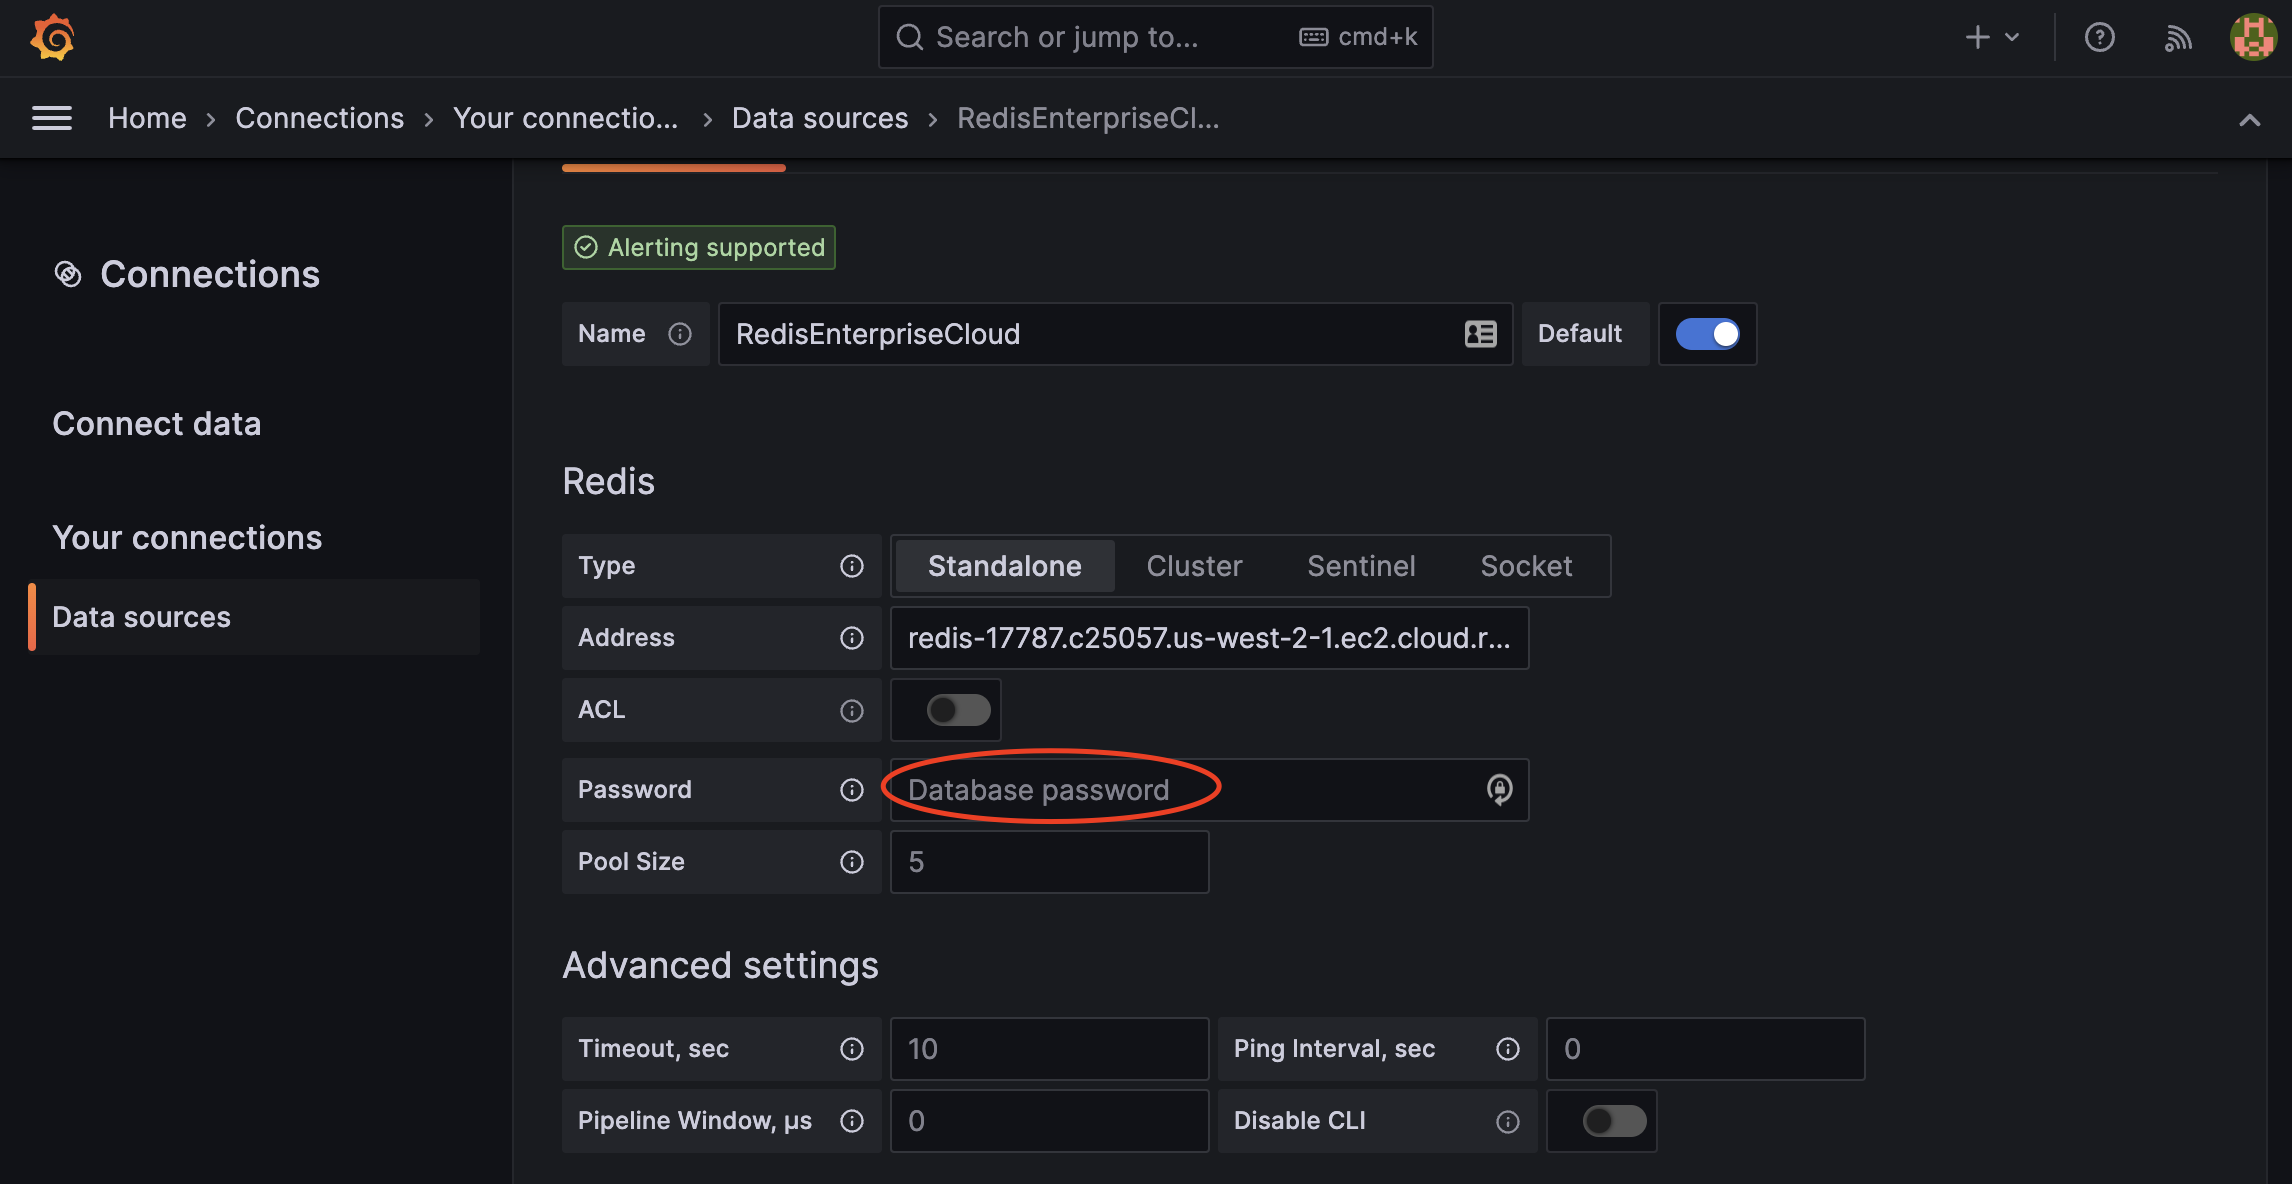
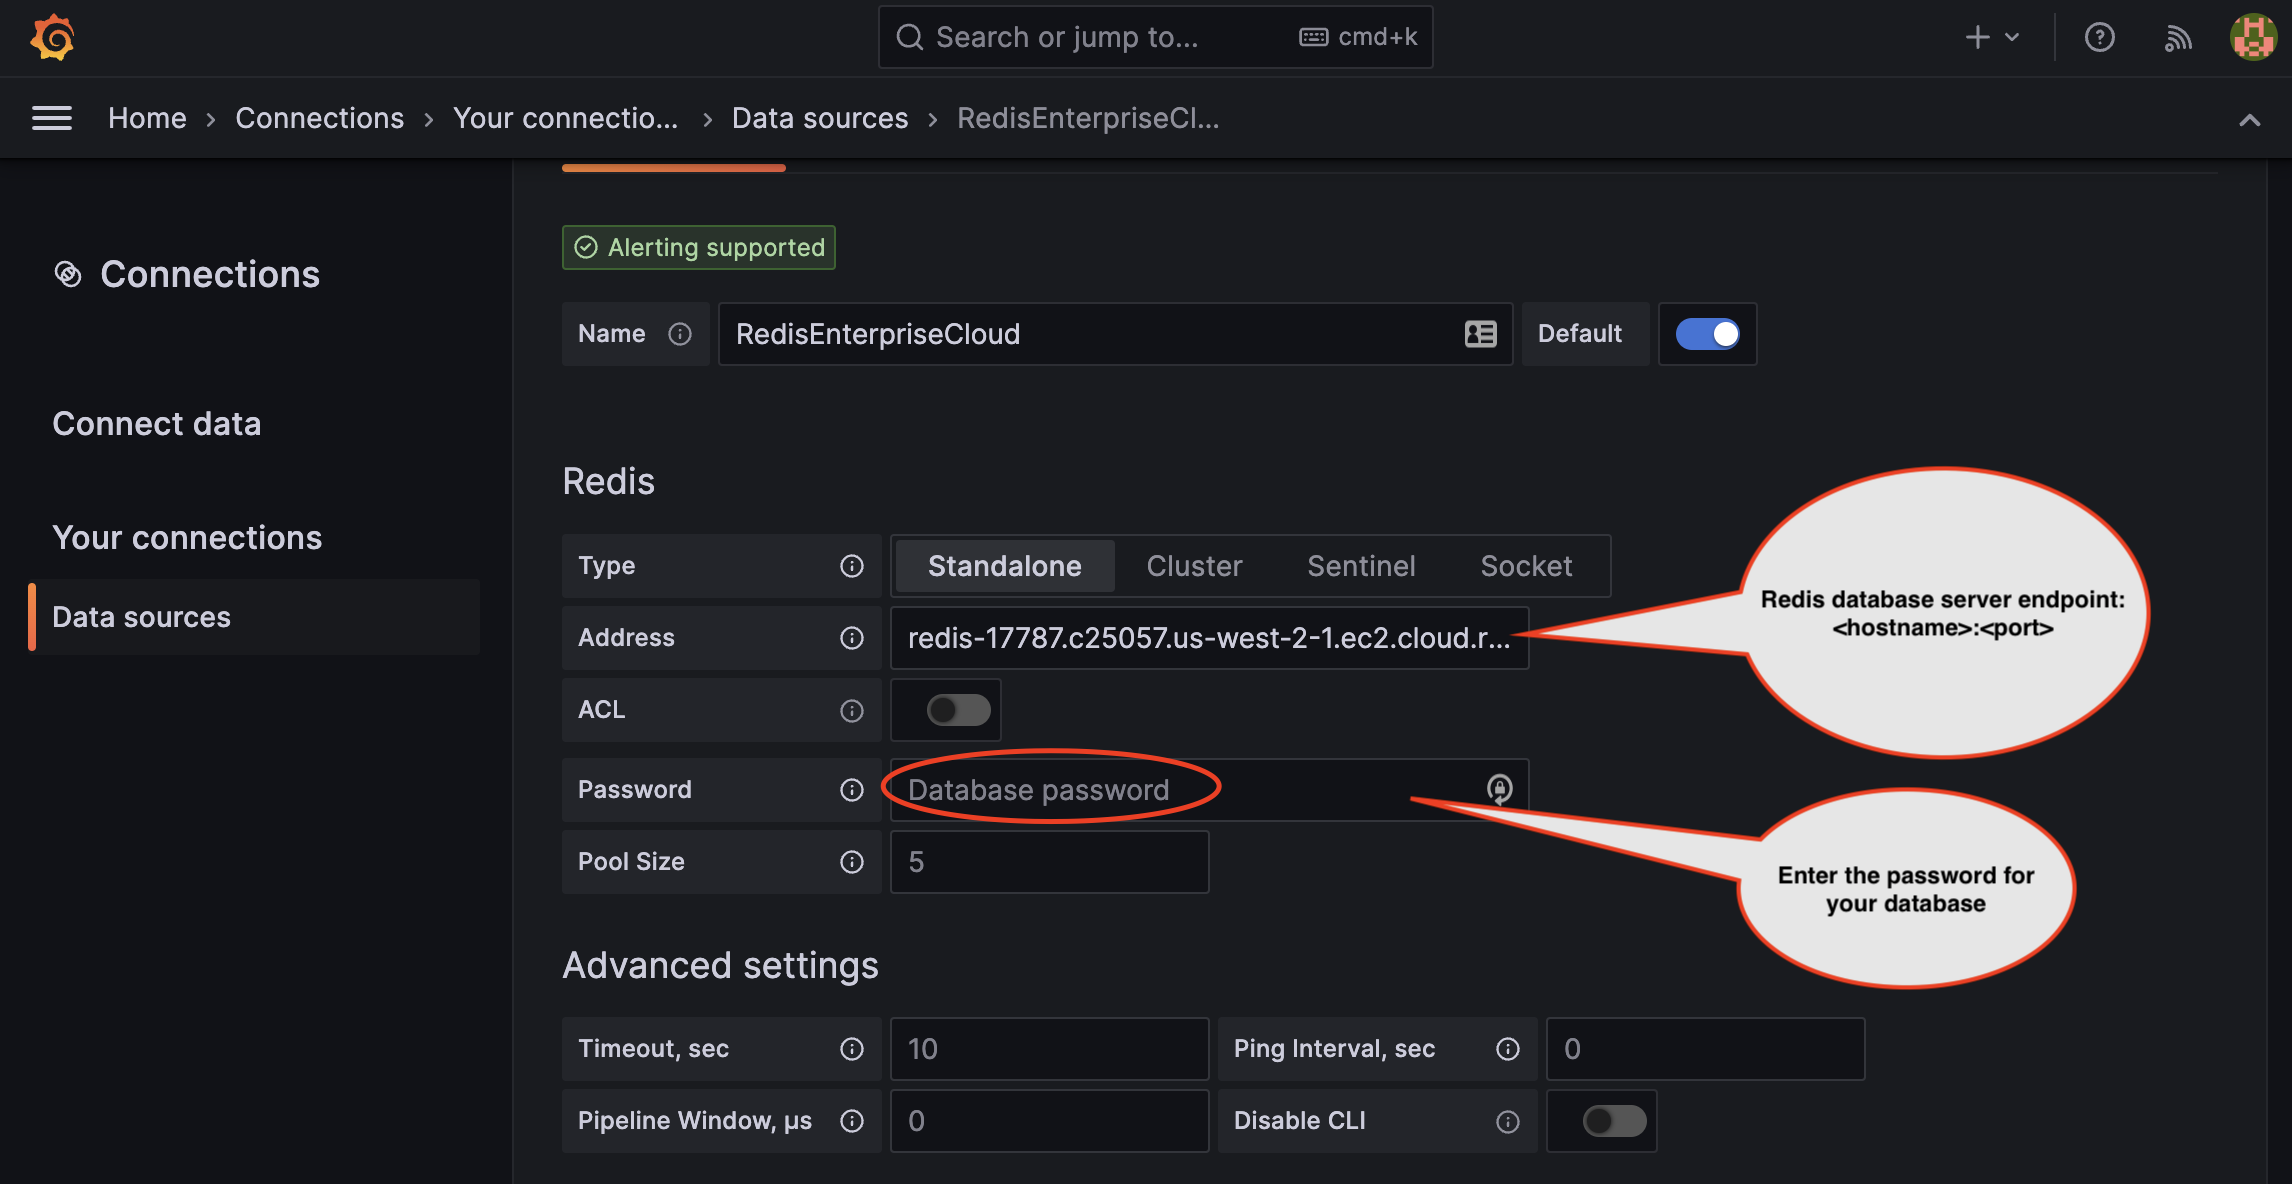
Lab 6 - Improvised with better instructions to save time.

Changed region(s): [[0.6195, 0.375, 0.9603, 0.8438]]

diff --git a/Lab 6 - Data Visualization (Optional)/README.md b/Lab 6 - Data Visualization (Optional)/README.md
@@ -14,7 +14,14 @@ In this lab, you are going to :
 
 In this exercise, you will use Grafana dashboard to visualize the live scoring of the Fraud Detection system.  **Redis Enterprise Cloud** has support for Grafana and it is very easy to build Grafana Dashboards on Redis data.
 
-1. Start an SSH session using `ssh` command. Here is an example for a typical public IP address of an ec2 machine that you have alredy provisioned in Lab 3.
+1. Start an SSH session using `ssh` command.
+Replace `<pem-file>` and `<ec2-server-hostname>`
+
+```
+ssh -i "~/.ssh/<pem-file>" centos@<ec2-server-hostname>
+```
+
+Here is an example for a typical public IP address of an ec2 machine that you have already provisioned in Lab 3.
 
 ```
 ssh -i "~/.ssh/aws-redis.pem" centos@ec2-35-93-64-166.us-west-2.compute.amazonaws.com
@@ -36,18 +43,16 @@ docker-compose up
 ![](images/02-dataviz.png)
 
 For example, for our EC2 machine that is running `CentOS`, the instructions are below:
-Open a seperate Terminal SSH window and run these commands to install Terraform.
+
+Open a separate Terminal SSH window and run these commands to install Terraform.
 
 ```
 sudo yum install -y yum-utils
 sudo yum-config-manager --add-repo https://rpm.releases.hashicorp.com/RHEL/hashicorp.repo
 sudo yum -y install terraform
 ```
-4. Next, edit the `terraform\grafana.tf` to reflect Redis Enterprise Cloud endpoint ( Hostname: Port). Search for `grafana_data_source` section and update the Redis endpoint, given by your instructor.
 
-<img width="504" alt="Screen Shot 2022-07-28 at 7 55 21 PM" src="https://user-images.githubusercontent.com/6223831/181816208-21686988-1f77-4315-8442-62ee7bdd95e6.png">
-
-5. Using terraform, we are going to install Redis data source plugin in the Grafana docker container and also setup Grafana dashboards. To do this, run the following commands.
+4. Using terraform, we are going to install Redis data source plugin in the Grafana docker container and also setup Grafana dashboards. To do this, run the following commands.
 
 ```
 cd terraform
@@ -85,76 +90,84 @@ rerun this command to reinitialize your working directory. If you forget, other
 commands will detect it and remind you to do so if necessary.
 ```
 
-7. Now lets apply the changes.
+5. Now lets apply the changes.
 
 ```
 terraform apply
 ```
 Please respond a 'yes' if there is a prompt asking you to go forward.
 
-8. Once the containers are up and running, fire up a browser and point it to :
+6. Once the containers are up and running, fire up a browser and point it to :
 http://<ec2-server-hostname>:3000
 
 Example: `http://ec2-35-93-64-166.us-west-2.compute.amazonaws.com:3000`
 
 If you are unable to access your Grafana Dashboard, you may have to edit your Security Group configurations to allow http traffic on port 3000.
 
-9. To configure `security groups` go to the EC2 machine properties page and click on `Security`
+7. To configure `security groups` go to the EC2 machine properties page and click on `Security`
 
 ![](images/03-dataviz.png)
 
-10. Click on the `Security Groups` attached to this EC2 machine.
+8. Click on the `Security Groups` attached to this EC2 machine.
 
 ![](images/04-dataviz.png)
 
-11. You will see the `EC2` ==> `Security Groups` page as shown below. Notice that there is `Inbound rules` tab and `Outbound rules` tab.
+9. You will see the `EC2` ==> `Security Groups` page as shown below. Notice that there is `Inbound rules` tab and `Outbound rules` tab.
 ![](images/05-dataviz.png)
 
-12. Click on the `Inbound rules` tab and click on the `Edit Inbound rules` button.
+10. Click on the `Inbound rules` tab and click on the `Edit Inbound rules` button.
 
 ![](images/06-dataviz.png)
 
-13. Add a rule that allows pretty much "All traffic" to reach from your local machine to the EC2 machine server.
+11. Add a rule that allows pretty much "All traffic" to reach from your local machine to the EC2 machine server.
 
 ![](images/07-dataviz.png)
 
 >IMPORTANT: The above setting is done purely for the demonstration purposes. Such settings are never recommended for Production environments.
 
-14. Fireup the browser and go to `http://<your-ec2-server-hostname>:3000`. Simply type in `admin` \ `admin` for user credentials on this screen.
+12. Fireup the browser and go to `http://<your-ec2-server-hostname>:3000`. Simply type in `admin` \ `admin` for user credentials on this screen.
 
 ![](images/08-dataviz.png)
 
-15. Skip resetting the password for now.
+13. Skip resetting the password for now.
 
 ![](images/09-dataviz.png)
 
 >IMPORTANT: The above setting is done purely for the demonstration purposes. Such settings are never recommended for Production environments.
 
-16. Woho... You are logged in to Grafana now.
+14. Woho... You are logged in to Grafana now.
 
 ![](images/10-dataviz.png)
 
-17. Navigate yourself from `Home` ==> `Connections` ==> `Your connections`, as shown below.
+15. Navigate yourself from `Home` ==> `Connections` ==> `Your connections`, as shown below.
 
 ![](images/11-dataviz.png)
 
-18. Click on `Data sources` and click on the `Redis Enterprise Cloud` configuration.
+16. Click on `Data sources` and click on the `Redis Enterprise Cloud` configuration.
 
 ![](images/12-dataviz.png)
 
-19. Make sure that the `Address` field is pointing to the Redis server host endpoint. Punch in the `database password` that your instructor provided.
+17. Edit the `Address` field to pointing to the Redis server host endpoint. Your instructor already provided you the Redis database endpoints.
+
+The format is :
+`<redis-database-hostname>:<port>`.
+
+Here is a typical example:
+`redis-13387.c25322.us-west-2-1.ec2.cloud.rlrcp.com:13387`
+
+Punch in the `database password` that your instructor provided.
 
 ![](images/13-dataviz.png)
 
-20. Click save and that should test the connection and ensures that it can reach the Redis endpoints successfully.
+18. Click save and that should test the connection and ensures that it can reach the Redis endpoints successfully.
 
 ![](images/14-dataviz.png)
 
-21. Navigate yourself `Home` ==> `Dashboards`, as shown below. Click on `FraudDetectionDashboard`
+19. Navigate yourself `Home` ==> `Dashboards`, as shown below. Click on `FraudDetectionDashboard`
 
 ![](images/15-dataviz.png)
 
-22. Yey... Now you have the Dashboard displaying Data visualization while your Fraud Detection system is inferencing and live scoring your transactions in real-time.
+20. Yey... Now you have the Dashboard displaying Data visualization while your Fraud Detection system is inferencing and live scoring your transactions in real-time.
 
 ![](images/16-dataviz.png)
 
